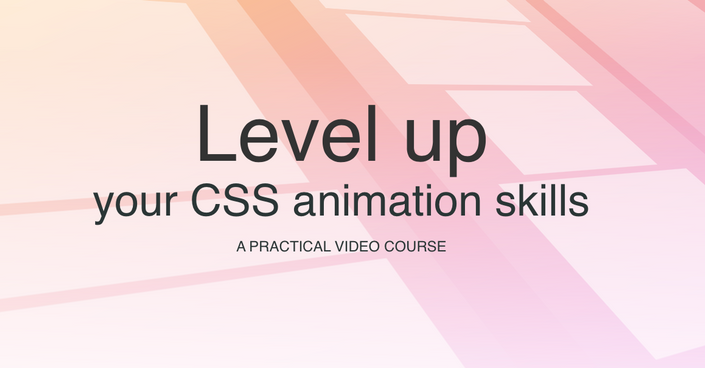
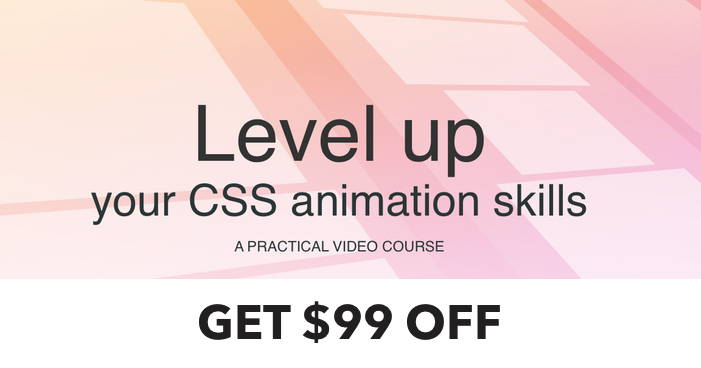
Fixing competition text

diff --git a/css/main.css b/css/main.css
@@ -3,4 +3,4 @@ Animate.css - http://daneden.me/animate
 Licensed under the MIT license - http://opensource.org/licenses/MIT
 
 Copyright (c) 2014 Daniel Eden
-*/.animated{animation-duration:1s;animation-fill-mode:both}.animated.infinite{animation-iteration-count:infinite}.animated.hinge{animation-duration:2s}@keyframes bounceIn{0%,20%,40%,60%,80%,100%{transition-timing-function:cubic-bezier(0.215, 0.61, 0.355, 1)}0%{opacity:0;transform:scale3d(0.3, 0.3, 0.3)}20%{transform:scale3d(1.1, 1.1, 1.1)}40%{transform:scale3d(0.9, 0.9, 0.9)}60%{opacity:1;transform:scale3d(1.03, 1.03, 1.03)}80%{transform:scale3d(0.97, 0.97, 0.97)}100%{opacity:1;transform:scale3d(1, 1, 1)}}.bounceIn{animation-name:bounceIn;animation-duration:.75s}@keyframes fadeIn{0%{opacity:0}100%{opacity:1}}.fadeIn{animation-name:fadeIn}body{font-family:Avenir Next,Helvetica,Arial,sans-serif;font-weight:400;letter-spacing:-0.36px;color:#00194E;background-color:#fff;-webkit-text-size-adjust:100%;text-rendering:optimizeLegibility;-webkit-font-smoothing:antialiased;font-smoothing:antialiased}h1,h2,h3,h4,h5,.demo-container{font-family:Avenir Next, Helvetica, Arial, sans-serif;font-weight:400}p{letter-spacing:-0.36px}img{max-width:100%;vertical-align:middle}.icon>svg{display:inline-block;width:16px;height:16px;vertical-align:middle}.icon>svg path{fill:#828282}.content-box{border-radius:.5em;background:#eee;padding:1em;margin:1em 0}.content-box h2:first-child{margin-top:0 !important}.site-header{padding-top:2em}nav{float:right;z-index:20}nav ul{list-style:none}nav li{display:inline-block;margin:0 0.5em;position:relative}nav a{border-radius:0.25em;color:#00194E;font-size:16px;transition:all 0.2s ease-out;padding:4px 8px}nav a:hover{color:#000;background:rgba(255,255,255,0.8)}.button{background:#141D31 !important;border-color:#141D31 !important;color:#fff !important}.absolute-nav{position:absolute;top:0;right:0}.new::after{content:"NEW";color:red;font-size:10px;position:absolute;left:-2em;top:-1em}.post-content{animation:fade-in .8s ease-out forwards;opacity:0;transform:translateY(1em)}.post-content img,.post-content .demo-container{border-radius:0.5em;margin:2em -35% 2em 0}.callout{background:#eee;border-radius:0.25em;color:#999;font-size:1.25em;padding:1em 1em 1px 1em;margin:2em 0.5em}.rocky{min-width:120px}img{width:100%;max-width:100%}code{background:#eee;border-radius:0.5em}pre{margin:2em -35% 2em 0}@media (max-width: 550px){pre{margin:2em -2em}}.highlight pre code{background:#eee !important;padding:2em}.centered{left:50%;position:relative;transform:translateX(-50%)}footer{color:#fff;background:#141D31;margin-top:2em;padding:4em 0 4em;text-align:center}footer a{color:#fff;font-weight:bold}footer input.button{background:#fff}.follow-button{background:rgba(255,255,255,0.2);border-radius:0.5em;color:#fff;display:block;line-height:1em;padding:0.5em;margin-top:2em;margin-right:0.5em;transition:all 0.75s cubic-bezier(0.54, -0.25, 0.34, 1.33)}.follow-button:hover{transform:rotateZ(360deg);background:#fff;border-color:#141D31;color:#141D31;text-decoration:none}.follow-button:hover svg path{fill:#141D31}.clearfix:after{content:"";display:table;clear:both}@keyframes fade-in{100%{opacity:1;transform:none}}a{text-decoration:none}form{margin-bottom:0}.svg-logo img{max-width:51px;height:42px;margin-top:-0.5em}.quote{display:block;margin:8em auto 4em;max-width:18em;padding:1em;position:relative}.quote *:first-child{margin-top:0}.quote-person{background-size:100%;border-radius:50%;box-shadow:0 2px 4px 0 rgba(31,0,33,0.5);height:7em;left:calc(50% - 3.5em);position:absolute;top:-6.5em;width:7em}.quotee{display:block}.quotes-container{display:-ms-flexbox;display:flex;-ms-flex-wrap:wrap;flex-wrap:wrap;margin-top:4em}.quote.stacked{min-width:340px;max-width:33%;margin:4em auto}.quote-container{display:-ms-flexbox;display:flex;max-width:840px;margin:1em 0 0}.quote-container .rocky{width:148px;margin-right:-1em}.quote-container blockquote{background:#eee;border:none;border-radius:1em;padding:1em;position:relative}.quote-container blockquote p{margin-bottom:0}.quote-container blockquote:before{content:"";position:absolute;border-style:solid;display:block;width:0;top:calc(50% - 16px);left:-30px;border-width:15px 30px 15px 0;border-color:transparent #eee}.quote-container blockquote:after{position:absolute;border-style:solid;display:block;width:0;top:calc(50% - 10px);bottom:auto;left:-21px;border-width:9px 21px 9px 0;border-color:transparent #eee;content:""}@media (max-width: 460px){.rocky{margin:0;width:100%}}@media (max-width: 420px){.quote-container{display:block;position:relative}.quote-container blockquote::before,.quote-container blockquote::after{display:none}.quote-container .rocky{position:absolute;top:0.5em;left:-3em;width:50px;height:50px;z-index:10}}.email-signup input{color:#00194E;display:inline-block}.email-signup input[type=submit]{transform:translateY(-2px)}.footer-signup-badge{max-width:8em}.icons{list-style:none;text-align:center;margin:0}.icons li{display:inline-block}.icons svg path{fill:#fff;transition:all 0.75s ease-out}.icons svg{height:1em;width:1em}.post-container{display:-ms-flexbox;display:flex;-ms-flex-wrap:wrap;flex-wrap:wrap}.post{text-align:center;padding:1em 0;width:33%;max-width:320px}.post img{border-radius:0.5em;display:block;max-width:240px;margin:0 auto;width:100%}.post h3{font-size:1.5em}.image-link{display:block}@media (max-width: 940px){.post{width:50%;max-width:50%}}@media (max-width: 580px){.post{padding:0.5em 0;width:100%;max-width:100%}}.menu.home{float:right}.menu.home li{display:inline-block;list-style:none}.course-image{width:100%}.course-image img{display:block;margin:1em auto}.single-quote{display:-ms-flexbox;display:flex;-ms-flex-align:center;align-items:center;margin:2em auto;max-width:38em;position:relative}.single-quote-person{background-size:100%;border-radius:50%;box-shadow:0 2px 4px 0 rgba(31,0,33,0.5);height:8em;margin-right:2em;min-width:8em;width:8em}.single-quotee{display:block}.home{margin-top:2em}.hero-image-container{animation:hero-fade-in 1s 0.5s linear forwards;overflow:hidden;position:relative;height:100%;left:50%;transform:translateX(-50%);width:100%;height:22em}.window-background{animation:background-color 5s cubic-bezier(0.81, -0.46, 0.19, 1.33) infinite;position:absolute;height:40em;width:30em;top:0}.screen-container{animation:move-emails 5s infinite ease-out;position:absolute;width:7.6em;height:6em;bottom:8.66em;background:#fff url(/images/courses/animation_101/emails.svg) repeat-y;background-size:100% auto;left:50%;transform:translate(-16.4%, -10%)}.notification{animation:move-notification 5s infinite cubic-bezier(0.81, -0.46, 0.19, 1.33);position:absolute;bottom:62%;left:65%;width:4%;height:3%;background:#fff url(/images/courses/animation_101/notification.svg);background-size:100%}.moon{animation:moon 5s infinite linear;position:absolute;left:25%;top:3%;background:url(/images/courses/animation_101/moon.svg) no-repeat;background-size:100%;height:25%;width:8%;transform-origin:30% 350%}@media (max-width: 520px){.international-homepage .flower-container h1{font-size:22px !important}}@keyframes background-color{0%{background:#011}20%,30%{background:#5ab6fc}100%{background:#011}}@keyframes move-emails{0%,24%{background-position:0 -4.6em;animation-timing-function:cubic-bezier(0.81, -0.46, 0.19, 1.33)}34%,60%{background-position:0 0}90%,100%{background-position:0 -78%}}@keyframes move-notification{0%,20%{transform:translateX(0.25em);opacity:0}50%,58%{transform:none;opacity:1}70%,100%{transform:translateX(-0.25em);opacity:0}}@keyframes moon{0%{transform:none;animation-timing-function:cubic-bezier(0.25, 0, 0.41, 1)}100%{transform:rotateZ(-360deg);animation-timing-function:linear}}@media (max-width: 550px){.demo-container.clocks.single .clock,.badge{font-size:12px}}@media (max-width: 420px){.demo-container.clocks.single .clock,.badge{font-size:10px}}.post-header{font-size:16px;background-color:#ccc;height:26em;overflow:hidden;position:relative}.post-header.shorter{background:none;height:64px}.post-header nav{padding:1em 2em}.shorter aside{padding-top:4.5em}.logo{position:absolute;left:1em;top:1em;width:100px;z-index:10}.demo{position:absolute;top:0;right:0;bottom:0;left:0}.post-content h2,.post-content h3,.post-content h4,.post-content h5{margin-top:4rem !important}.rtl h1,.rtl h2,.rtl h3,.rtl h4,.rtl h5,.rtl p{direction:rtl;unicode-bidi:embed}.rtl img{display:block;margin:0 0 0 0}.rtl pre{margin:2em 0}.rtl .demo-container{margin:2em 0 2em auto}.rtl .post-footer h1,.rtl .post-footer h2,.rtl .post-footer h3,.rtl .post-footer h4,.rtl .post-footer h5,.rtl .post-footer p{direction:ltr}.post-aside{padding-top:3em}.post-aside h3{margin:0}.demo-link{margin:0 0 1em}.demo-link .button{background:#333;border:none;color:#fff}.translations p{font-size:0.75em}.translations ul{list-style:none;font-size:0.8em;padding:0 .5em 0}.translations ul li::before{content:'\21FE  '}.translations .translate{margin-top:2rem;margin-bottom:0}.translations .translation-message{margin-bottom:1.5rem}.powered-by{font-size:.5em;color:#888;padding-top:0}.powered-by img{width:67px;margin-left:4px}.translator p{font-size:0.8em}.post-title{margin-top:1.25em}.sidebar-email-signup{background:#eee;border-radius:4px;font-size:12px;padding:0.5em 1em}.sidebar-email-signup h4{font-size:1.75em;margin:0 0 0.5em}.sidebar-email-signup input[type=email]{width:100%}.sidebar-email-signup input[type=submit]{font-size:9px !important}.course-sidebar{background:#eee;border-radius:0.5em;margin:1.5em 0;padding:0.25em 0.5em 0.5em}.course-sidebar img{height:5em;margin:0 auto}.course-sidebar h3,.course-sidebar p{color:#666;font-size:18px;text-align:center;margin:0.5em 0}.course-sidebar p{font-size:14px;font-style:italic}@media (max-width: 768px){.container{width:95%}}@media (max-width: 550px){.post-header{font-size:12px}.author-details,.demo-link,.sidebar-email-signup,.course-sidebar{display:none}}@media (max-width: 420px){.post-header{font-size:8px}}
+*/.animated{animation-duration:1s;animation-fill-mode:both}.animated.infinite{animation-iteration-count:infinite}.animated.hinge{animation-duration:2s}@keyframes bounceIn{0%,20%,40%,60%,80%,100%{transition-timing-function:cubic-bezier(0.215, 0.61, 0.355, 1)}0%{opacity:0;transform:scale3d(0.3, 0.3, 0.3)}20%{transform:scale3d(1.1, 1.1, 1.1)}40%{transform:scale3d(0.9, 0.9, 0.9)}60%{opacity:1;transform:scale3d(1.03, 1.03, 1.03)}80%{transform:scale3d(0.97, 0.97, 0.97)}100%{opacity:1;transform:scale3d(1, 1, 1)}}.bounceIn{animation-name:bounceIn;animation-duration:.75s}@keyframes fadeIn{0%{opacity:0}100%{opacity:1}}.fadeIn{animation-name:fadeIn}body{font-family:Avenir Next,Helvetica,Arial,sans-serif;font-weight:400;letter-spacing:-0.36px;color:#00194E;background-color:#fff;-webkit-text-size-adjust:100%;text-rendering:optimizeLegibility;-webkit-font-smoothing:antialiased;font-smoothing:antialiased}h1,h2,h3,h4,h5,.demo-container{font-family:Avenir Next, Helvetica, Arial, sans-serif;font-weight:400}p{letter-spacing:-0.36px}img{max-width:100%;vertical-align:middle}.icon>svg{display:inline-block;width:16px;height:16px;vertical-align:middle}.icon>svg path{fill:#828282}.content-box{border-radius:.5em;background:#eee;padding:1em;margin:1em 0}.content-box h2:first-child{margin-top:0 !important}.site-header{padding-top:2em}nav{float:right;z-index:20}nav ul{list-style:none}nav li{display:inline-block;margin:0 0.5em;position:relative}nav a{border-radius:0.25em;color:#00194E;font-size:16px;transition:all 0.2s ease-out;padding:4px 8px}nav a:hover{color:#000;background:rgba(255,255,255,0.8)}.button{background:#141D31 !important;border-color:#141D31 !important;color:#fff !important}.absolute-nav{position:absolute;top:0;right:0}.new::after{content:"NEW";color:red;font-size:10px;position:absolute;left:-2em;top:-1em}.post-content{animation:fade-in .8s ease-out forwards;opacity:0;transform:translateY(1em)}.post-content img,.post-content .demo-container{border-radius:0.5em;margin:2em -35% 2em 0}.callout{background:#eee;border-radius:0.25em;color:#999;font-size:1.25em;padding:1em 1em 1px 1em;margin:2em 0.5em}.rocky{min-width:120px}img{width:100%;max-width:100%}code{background:#eee;border-radius:0.5em}pre{margin:2em -35% 2em 0}@media (max-width: 550px){pre{margin:2em -2em}}.highlight pre code{background:#eee !important;padding:2em}.centered{left:50%;position:relative;transform:translateX(-50%)}footer{color:#fff;background:#141D31;margin-top:2em;padding:4em 0 4em;text-align:center}footer a{color:#fff;font-weight:bold}footer input.button{background:#fff}.follow-button{background:rgba(255,255,255,0.2);border-radius:0.5em;color:#fff;display:block;line-height:1em;padding:0.5em;margin-top:2em;margin-right:0.5em;transition:all 0.75s cubic-bezier(0.54, -0.25, 0.34, 1.33)}.follow-button:hover{transform:rotateZ(360deg);background:#fff;border-color:#141D31;color:#141D31;text-decoration:none}.follow-button:hover svg path{fill:#141D31}.clearfix:after{content:"";display:table;clear:both}@keyframes fade-in{100%{opacity:1;transform:none}}a{text-decoration:none}form{margin-bottom:0}.svg-logo img{max-width:51px;height:42px;margin-top:-0.5em}.quote{display:block;margin:8em auto 4em;max-width:18em;padding:1em;position:relative}.quote *:first-child{margin-top:0}.quote-person{background-size:100%;border-radius:50%;box-shadow:0 2px 4px 0 rgba(31,0,33,0.5);height:7em;left:calc(50% - 3.5em);position:absolute;top:-6.5em;width:7em}.quotee{display:block}.quotes-container{display:-ms-flexbox;display:flex;-ms-flex-wrap:wrap;flex-wrap:wrap;margin-top:4em}.quote.stacked{min-width:340px;max-width:33%;margin:4em auto}.quote-container{display:-ms-flexbox;display:flex;max-width:840px;margin:1em 0 0}.quote-container .rocky{width:148px;margin-right:-1em}.quote-container blockquote{background:#eee;border-radius:1em;border:none;height:3rem;margin-top:6rem;padding:1em;position:relative}.quote-container blockquote p{margin-bottom:0}.quote-container blockquote:before{content:"";position:absolute;border-style:solid;display:block;width:0;top:calc(50% - 16px);left:-30px;border-width:15px 30px 15px 0;border-color:transparent #eee}.quote-container blockquote:after{position:absolute;border-style:solid;display:block;width:0;top:calc(50% - 10px);bottom:auto;left:-21px;border-width:9px 21px 9px 0;border-color:transparent #eee;content:""}@media (max-width: 460px){.rocky{margin:0;width:100%}}@media (max-width: 420px){.quote-container{display:block;position:relative}.quote-container blockquote::before,.quote-container blockquote::after{display:none}.quote-container .rocky{position:absolute;top:0.5em;left:-3em;width:50px;height:50px;z-index:10}}.email-signup input{color:#00194E;display:inline-block}.email-signup input[type=submit]{transform:translateY(-2px)}.footer-signup-badge{max-width:8em}.icons{list-style:none;text-align:center;margin:0}.icons li{display:inline-block}.icons svg path{fill:#fff;transition:all 0.75s ease-out}.icons svg{height:1em;width:1em}.post-container{display:-ms-flexbox;display:flex;-ms-flex-wrap:wrap;flex-wrap:wrap}.post{text-align:center;padding:1em 0;width:33%;max-width:320px}.post img{border-radius:0.5em;display:block;max-width:240px;margin:0 auto;width:100%}.post h3{font-size:1.5em}.image-link{display:block}@media (max-width: 940px){.post{width:50%;max-width:50%}}@media (max-width: 580px){.post{padding:0.5em 0;width:100%;max-width:100%}}.menu.home{float:right}.menu.home li{display:inline-block;list-style:none}.course-image{width:100%}.course-image img{display:block;margin:1em auto}.single-quote{display:-ms-flexbox;display:flex;-ms-flex-align:center;align-items:center;margin:2em auto;max-width:38em;position:relative}.single-quote-person{background-size:100%;border-radius:50%;box-shadow:0 2px 4px 0 rgba(31,0,33,0.5);height:8em;margin-right:2em;min-width:8em;width:8em}.single-quotee{display:block}.home{margin-top:2em}.hero-image-container{animation:hero-fade-in 1s 0.5s linear forwards;overflow:hidden;position:relative;height:100%;left:50%;transform:translateX(-50%);width:100%;height:22em}.window-background{animation:background-color 5s cubic-bezier(0.81, -0.46, 0.19, 1.33) infinite;position:absolute;height:40em;width:30em;top:0}.screen-container{animation:move-emails 5s infinite ease-out;position:absolute;width:7.6em;height:6em;bottom:8.66em;background:#fff url(/images/courses/animation_101/emails.svg) repeat-y;background-size:100% auto;left:50%;transform:translate(-16.4%, -10%)}.notification{animation:move-notification 5s infinite cubic-bezier(0.81, -0.46, 0.19, 1.33);position:absolute;bottom:62%;left:65%;width:4%;height:3%;background:#fff url(/images/courses/animation_101/notification.svg);background-size:100%}.moon{animation:moon 5s infinite linear;position:absolute;left:25%;top:3%;background:url(/images/courses/animation_101/moon.svg) no-repeat;background-size:100%;height:25%;width:8%;transform-origin:30% 350%}@media (max-width: 520px){.international-homepage .flower-container h1{font-size:22px !important}}@keyframes background-color{0%{background:#011}20%,30%{background:#5ab6fc}100%{background:#011}}@keyframes move-emails{0%,24%{background-position:0 -4.6em;animation-timing-function:cubic-bezier(0.81, -0.46, 0.19, 1.33)}34%,60%{background-position:0 0}90%,100%{background-position:0 -78%}}@keyframes move-notification{0%,20%{transform:translateX(0.25em);opacity:0}50%,58%{transform:none;opacity:1}70%,100%{transform:translateX(-0.25em);opacity:0}}@keyframes moon{0%{transform:none;animation-timing-function:cubic-bezier(0.25, 0, 0.41, 1)}100%{transform:rotateZ(-360deg);animation-timing-function:linear}}@media (max-width: 550px){.demo-container.clocks.single .clock,.badge{font-size:12px}}@media (max-width: 420px){.demo-container.clocks.single .clock,.badge{font-size:10px}}.post-header{font-size:16px;background-color:#ccc;height:26em;overflow:hidden;position:relative}.post-header.shorter{background:none;height:64px}.post-header nav{padding:1em 2em}.shorter aside{padding-top:4.5em}.logo{position:absolute;left:1em;top:1em;width:100px;z-index:10}.demo{position:absolute;top:0;right:0;bottom:0;left:0}.post-content h2,.post-content h3,.post-content h4,.post-content h5{margin-top:4rem !important}.rtl h1,.rtl h2,.rtl h3,.rtl h4,.rtl h5,.rtl p{direction:rtl;unicode-bidi:embed}.rtl img{display:block;margin:0 0 0 0}.rtl pre{margin:2em 0}.rtl .demo-container{margin:2em 0 2em auto}.rtl .post-footer h1,.rtl .post-footer h2,.rtl .post-footer h3,.rtl .post-footer h4,.rtl .post-footer h5,.rtl .post-footer p{direction:ltr}.post-aside{padding-top:3em}.post-aside h3{margin:0}.demo-link{margin:0 0 1em}.demo-link .button{background:#333;border:none;color:#fff}.translations p{font-size:0.75em}.translations ul{list-style:none;font-size:0.8em;padding:0 .5em 0}.translations ul li::before{content:'\21FE  '}.translations .translate{margin-top:2rem;margin-bottom:0}.translations .translation-message{margin-bottom:1.5rem}.powered-by{font-size:.5em;color:#888;padding-top:0}.powered-by img{width:67px;margin-left:4px}.translator p{font-size:0.8em}.post-title{margin-top:1.25em}.sidebar-email-signup{background:#eee;border-radius:4px;font-size:12px;padding:0.5em 1em}.sidebar-email-signup h4{font-size:1.75em;margin:0 0 0.5em}.sidebar-email-signup input[type=email]{width:100%}.sidebar-email-signup input[type=submit]{font-size:9px !important}.course-sidebar{background:#eee;border-radius:0.5em;margin:1.5em 0;padding:0.25em 0.5em 0.5em}.course-sidebar img{height:5em;margin:0 auto}.course-sidebar h3,.course-sidebar p{color:#666;font-size:18px;text-align:center;margin:0.5em 0}.course-sidebar p{font-size:14px;font-style:italic}@media (max-width: 768px){.container{width:95%}}@media (max-width: 550px){.post-header{font-size:12px}.author-details,.demo-link,.sidebar-email-signup,.course-sidebar{display:none}}@media (max-width: 420px){.post-header{font-size:8px}}

diff --git a/_src/sass/components/_quote-container.scss b/_src/sass/components/_quote-container.scss
@@ -49,8 +49,10 @@
 
   blockquote {
     background: #eee;
-    border: none;
     border-radius: 1em;
+    border: none;
+    height: 3rem;
+    margin-top: 6rem;
     padding: 1em;
     position: relative;
 

diff --git a/_posts/2017-03-01-levelup-competition.md b/_posts/2017-03-01-levelup-competition.md
@@ -6,14 +6,16 @@ bodyClass: shorter
 description: Create your own jQuery plugin loading spinner
 categories: [updates, courses]
 imageURL: /images/courses/levelup/cover.png
-tweet_text: This new CSS Animation course from @CSSAnimation looks great http://courses.cssanimation.rocks/p/level-up
+tweet_text: This new CSS Animation course from @CSSAnimation looks great https://cssanimation.rocks/images/courses/levelup/cover.png
 ---
 
-Today's a big day. Not only has the [CSS Animation](https://twitter.com/cssanimation) Twitter just passed **5,000** followers (hi everyone!), I'm also excited to let you know about a new course I'm launching next month. As well, I'd like to give you the opportunity to be one of the very first to enjoy the course, for just $1! Read on...
+Today's a big day. We passed [**5,000** Twitter followers](https://twitter.com/cssanimation) (hi everyone!), and I have news for you about a new course I'm launching very soon.
 
-## Applying the theory to a real project
+I'd like to give **you** the opportunity to be one of the very first to enjoy the course, [for just **$1**](#id-buy-that-for-a-dollar)!
 
-It's almost exactly 2 years since I launched [CSS Animation 101](https://cssanimation.rocks/courses/animation-101/), a gentle email based introduction to how CSS animation works. In that time over 2,000 of you have enjoyed the course and I've had loads of great feedback and suggestions on what you want to see next.
+## Practical and useful lessons
+
+It's almost exactly 2 years since I launched [CSS Animation 101](https://cssanimation.rocks/courses/animation-101/) as an email-based intro to CSS animation. More than 2,000 of you have enjoyed the course and I've had loads of great feedback and suggestions.
 
 Many people have been in touch to ask how they should apply these skills to real projects. 
 
@@ -23,7 +25,7 @@ To answer this I'm creating a new course that will focus on the practical step-b
 
 This time I'll be trying something new. I'd like you all to join me on the creative journey of building and recording the course. To do this, I'll be releasing each module one at a time.
 
-The first module will be dropping at the end of March. After that, I'll be listening to your thoughts, and bringing out a new module every few weeks. Each module builds on the last and works toward creating a complete, working animated landing page.
+The first module will be arriving at the end of March. After that, I'll be listening to your thoughts, and bringing out a new module every few weeks. Each module builds on the last and works toward creating a complete, working animated landing page.
 
 Topics we'll be covering include:
 
@@ -33,7 +35,7 @@ Topics we'll be covering include:
 * Use animation to grab attention
 * Build an animated content carousel
 * Putting together your own animation library using Sass
-* And more!
+* And more modules added over time (your feedback counts)!
 
 Each module will come with downloadable code you can use *today* on your projects. Once you enrol, you'll get lifetime access to all modules as well as any future modules I add.
 
@@ -45,15 +47,20 @@ As well as video lessons, downloadable code and cheatsheets - you'll also get ac
 
 Want an early glimpse of the course? You can [see the Super-secret pre-launch course page now](http://courses.cssanimation.rocks/p/level-up) for more info. Sshhh! (I'm kidding, tell everyone!)
 
-## Get 99% off!
+## I'd buy that for a dollar
 
-Shut up and take my money you say? Just a minute! How much would you want to pay for such a useful, professional course? $1000? $300? How about **$1**. At the end of this week I'll be selecting by random 20 lucky people to buy this course for just $1.
+*Shut up and take my money* you say? Just a minute! How much would you want to pay for such a useful, professional course? $1000? $300? How about **$1**? 😲
 
-Want to win? There are three ways! Either pick one, or you can maximise your chances by doing all three:
+This Friday I'll be selecting by random 20 lucky people to buy this course for just $1.
+
+There are three ways you can win. Pick one, or you can maximise your chances by doing all three:
 
 * Make sure you're [following on Twitter](https://twitter.com/cssanimation) and [give the course a mention](http://twitter.com/intent/tweet?url=http%3A%2F%2Fcourses.cssanimation.rocks%2Fp%2Flevel-up&text=This%20course%20looks%20amazing!%20Level%20up%20your%20CSS%20animation%20skills%20with%20%40CSSAnimation%20https%3A%2F%2Fcssanimation.rocks%2Fimages%2Fcourses%2Flevelup%2Fcover.png)
 * [Like the Facebook page](https://www.facebook.com/cssanimation) and [shout it out on the Facebooks](https://www.facebook.com/dialog/feed?app_id=184683071273&link=http%3A%2F%2Fcourses.cssanimation.rocks%2Fp%2Flevel-up&picture=https%3A%2F%2Fcssanimation.rocks%2Fimages%2Fcourses%2Flevelup%2Fcover.png&name=This%20new%20course%20from%20CSS%20Animation%20looks%20amazing!&caption=%20&description=I'll%20be%20learning%20how%20to%20apply%20the%20theory%20of%20CSS%20animations%20in%20this%20video%20course%20from%20CSS%20Animation%20Rocks.%20Join%20me!&redirect_uri=http%3A%2F%2Fwww.facebook.com%2F)
-* Sign up to the [CSS Animation Weekly newsletter](https://weekly.cssanimation.rocks)
+* Give us [some love on Pinterest](http://pinterest.com/pin/create/button/?url=http%3A%2F%2Fcourses.cssanimation.rocks%2Fp%2Flevel-up&media=https%3A%2F%2Fcssanimation.rocks%2Fimages%2Fcourses%2Flevelup%2Fcover.png&description=Launching%20soon!%20See%20how%20you%20can%20level-up%20your%20CSS%20animation%20skills%20with%20this%20new%20course%20from%20CSS%20Animation%20Rocks%20https%3A%2F%2Fcssanimation.rocks)
+
+
+Bonus chance to win: Make sure you've signed up to the [CSS Animation Weekly newsletter](https://weekly.cssanimation.rocks)
 
 Be quick! This competition closes on Friday, 3rd March at 12pm GMT. Winners will be contacted shortly after.
 
